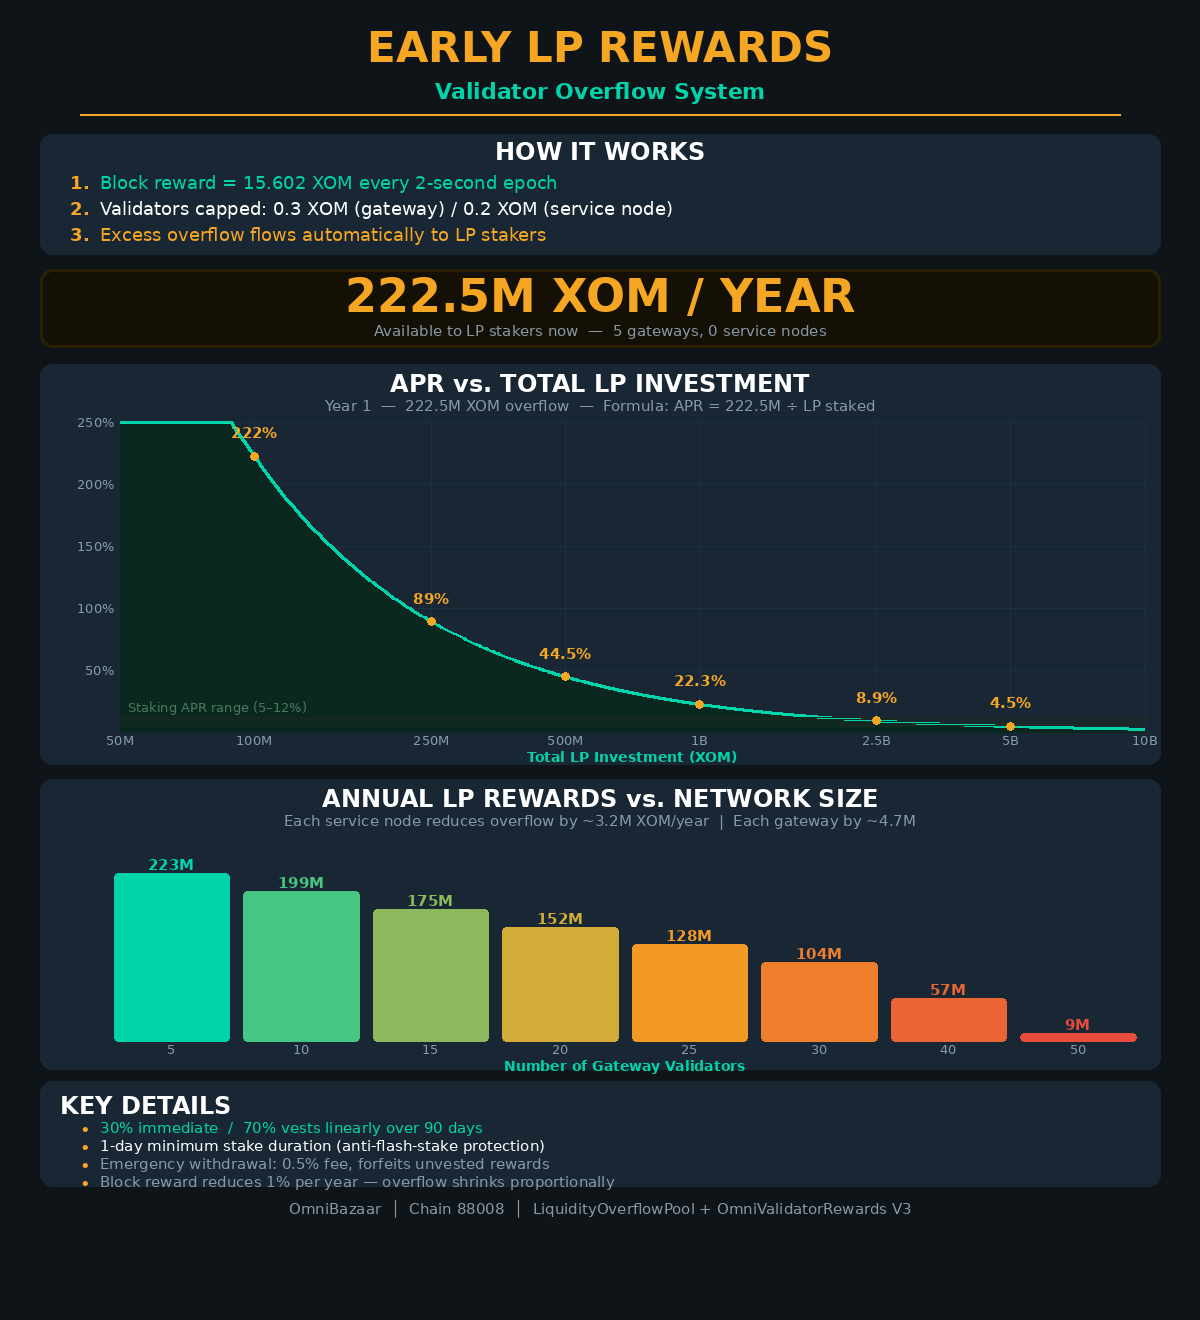
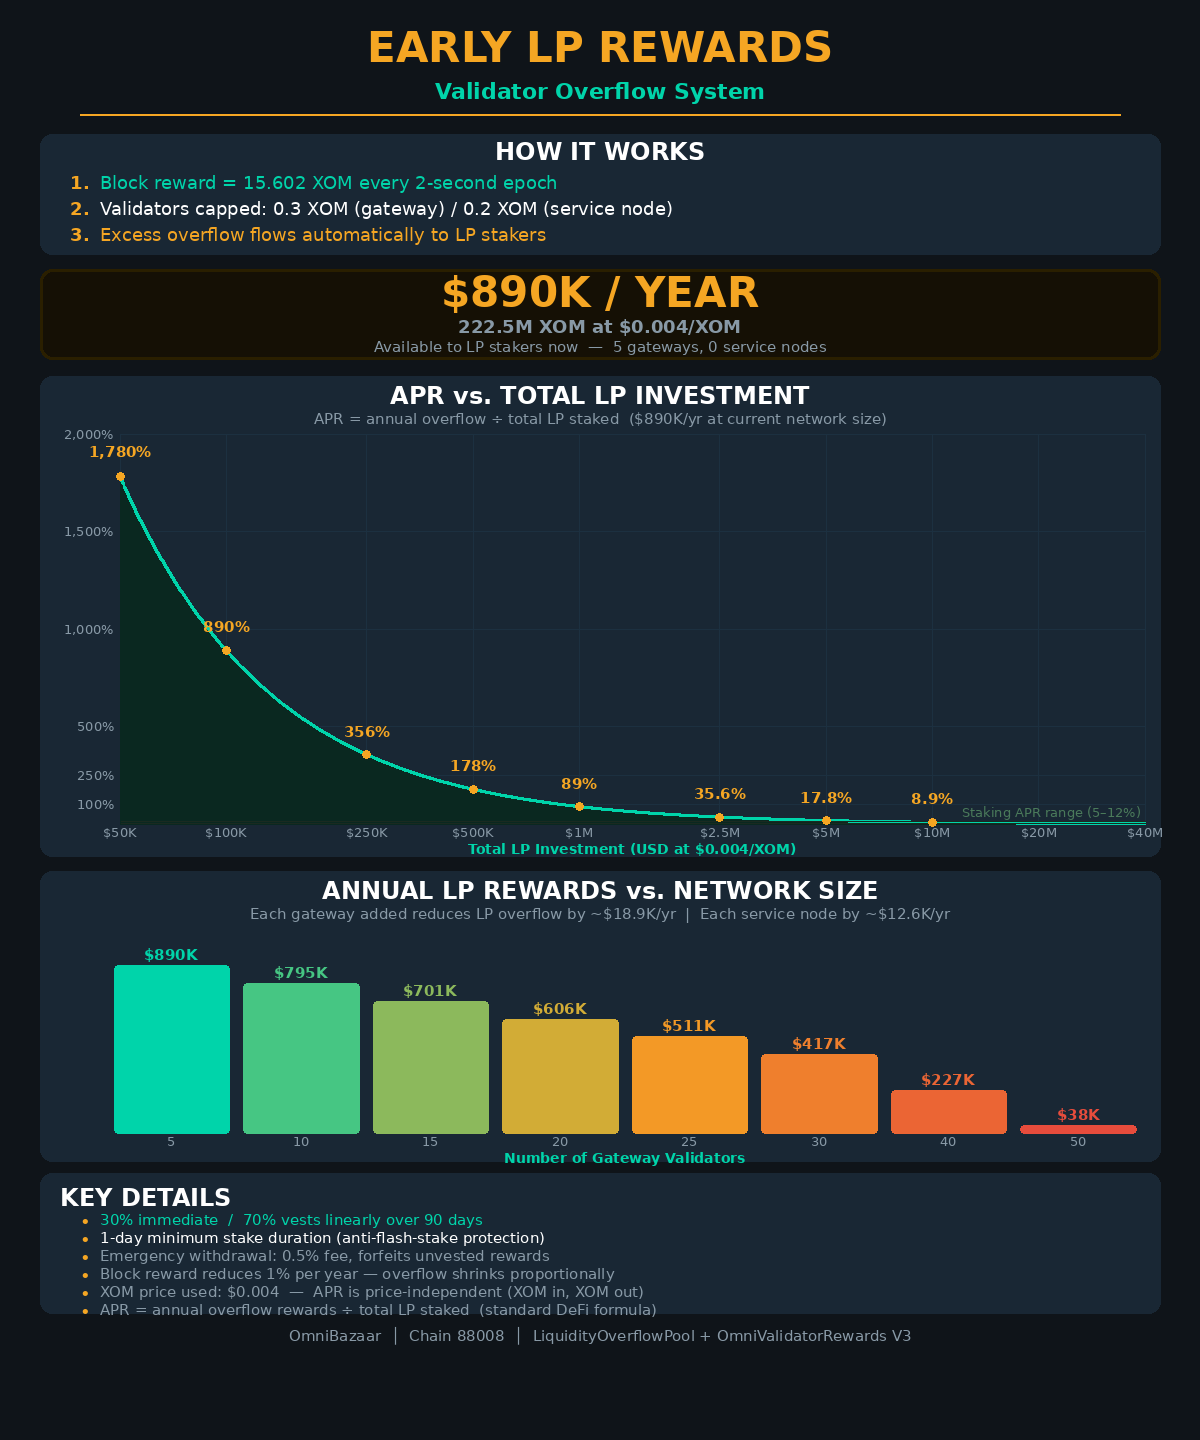
Update reward infographics to show USD values and overflow-based LP model
create_lp_rewards_infographic.py:
  - Convert all chart axes and labels from XOM to USD at $0.004/XOM
  - X-axis now $50K–$40M range (was 50M–10B XOM) for realistic LP investment scale
  - Y-axis APR range expanded to 2,000% to show high APR at low investment levels
  - Add APR formula documentation (standard MasterChef model)
  - Add fmt_usd() helper for axis label formatting
  - Add XOM price note and APR independence disclaimer to key details
  - Update bar chart to show $/yr per gateway reduction (~$18.9K vs ~$12.6K per SN)
  - Increase canvas height to 1440 to accommodate additional detail lines

  create_rewards_infographic.py:
  - Replace block producer/staking pool/ODDAO block reward cards with
    gateway validators (0.3 cap), service nodes (0.2 cap), LP overflow (~14.1)
  - Change "block" terminology to "epoch" throughout
  - Add overflow routing explanation line below epoch reward summary
  - Update validator operator card to show capped epoch reward
  - Fix output path to Documents/ directory (was writing to project root)

  Regenerate both PNG infographics with updated content.

diff --git a/create_lp_rewards_infographic.py b/create_lp_rewards_infographic.py
@@ -4,10 +4,18 @@ OmniBazaar LP Rewards Infographic Generator
 
 Shows how LP APR decreases as total LP investment grows (hyperbolic curve)
 and how total annual LP rewards decrease as the validator network grows.
+All amounts displayed in USD at $0.004/XOM.
 
 On-chain sources:
   OmniValidatorRewards.sol  — INITIAL_BLOCK_REWARD=15.602, gatewayRewardCap=0.3, serviceNodeRewardCap=0.2
   LiquidityOverflowPool.sol — 30% immediate, 70% vests 90 days, 1-day min stake
+
+APR formula (industry-standard MasterChef model):
+  APR = (annualOverflowRewards / totalLPStaked) x 100
+  - No auto-compounding (APR, not APY)
+  - Price-independent (XOM/XOM ratio cancels out USD conversion)
+  - 30% of rewards are immediately claimable, 70% vest linearly over 90 days
+  - For stakers holding >90 days, the full APR is realized
 """
 
 from PIL import Image, ImageDraw, ImageFont
@@ -15,7 +23,7 @@ import math
 
 # ── Layout ─────────────────────────────────────────────────────
 WIDTH = 1200
-HEIGHT = 1320
+HEIGHT = 1440
 BG       = "#0f1419"
 TEAL     = "#00d4aa"
 BLUE     = "#1da1f2"
@@ -41,6 +49,10 @@ NUM_GW = 5
 OVERFLOW_EPOCH = BLOCK_REWARD - NUM_GW * GATEWAY_CAP   # 14.102
 ANNUAL_OVERFLOW = OVERFLOW_EPOCH * EPOCHS_PER_YEAR      # ~222.5M XOM
 
+# USD conversion
+XOM_PRICE = 0.004              # $0.004 per XOM
+ANNUAL_OVERFLOW_USD = ANNUAL_OVERFLOW * XOM_PRICE       # ~$890K
+
 
 def rgb(h):
     h = h.lstrip('#')
@@ -55,6 +67,14 @@ def rrect(draw, coords, r, fill):
 
 def lerp(a, b, t):
     return tuple(int(a[i] + (b[i] - a[i]) * t) for i in range(3))
+
+def fmt_usd(v):
+    """Format USD value for axis labels."""
+    if v >= 1e6:
+        return f"${v/1e6:.0f}M" if v >= 10e6 else f"${v/1e6:.1f}M"
+    if v >= 1e3:
+        return f"${v/1e3:.0f}K"
+    return f"${v:.0f}"
 
 
 def create():
@@ -72,7 +92,8 @@ def create():
     F_BSM     = ft("DejaVuSans-Bold.ttf", 15)
     F_AX      = ft("DejaVuSans.ttf", 13)
     F_BAX     = ft("DejaVuSans-Bold.ttf", 14)
-    F_BIG     = ft("DejaVuSans-Bold.ttf", 46)
+    F_BIG     = ft("DejaVuSans-Bold.ttf", 42)
+    F_BIGSUB  = ft("DejaVuSans-Bold.ttf", 26)
 
     y = 30
 
@@ -100,68 +121,75 @@ def create():
     y += 135
 
     # ════════════ CURRENT STATE ════════════
-    rrect(d, (40, y, WIDTH-40, y+78), 12, rgb(DARK_GOLD))
-    rrect(d, (43, y+3, WIDTH-43, y+75), 10, rgb("#151005"))
+    rrect(d, (40, y, WIDTH-40, y+90), 12, rgb(DARK_GOLD))
+    rrect(d, (43, y+3, WIDTH-43, y+87), 10, rgb("#151005"))
+    usd_k = ANNUAL_OVERFLOW_USD / 1e3
     om = ANNUAL_OVERFLOW / 1e6
-    d.text((WIDTH//2, y+8), f"{om:.1f}M XOM / YEAR", font=F_BIG, fill=rgb(GOLD), anchor="mt")
-    d.text((WIDTH//2, y+56),
+    d.text((WIDTH//2, y+6), f"${usd_k:.0f}K / YEAR", font=F_BIG, fill=rgb(GOLD), anchor="mt")
+    d.text((WIDTH//2, y+50), f"{om:.1f}M XOM at ${XOM_PRICE}/XOM",
+           font=F_BBODY, fill=rgb(MUTED), anchor="mt")
+    d.text((WIDTH//2, y+72),
            f"Available to LP stakers now  \u2014  {NUM_GW} gateways, 0 service nodes",
            font=F_SM, fill=rgb(MUTED), anchor="mt")
-    y += 95
+    y += 107
 
-    # ════════════ CHART 1: APR vs LP Investment ════════════
-    CH1 = 400
+    # ════════════ CHART 1: APR vs LP Investment (USD) ════════════
+    CH1 = 480
     rrect(d, (40, y, WIDTH-40, y+CH1), 12, rgb(CARD))
     d.text((WIDTH//2, y+10), "APR vs. TOTAL LP INVESTMENT", font=F_SEC, fill=rgb(WHITE), anchor="mt")
     d.text((WIDTH//2, y+36),
-           f"Year 1  \u2014  {om:.1f}M XOM overflow  \u2014  Formula: APR = {om:.1f}M \u00f7 LP staked",
+           f"APR = annual overflow \u00f7 total LP staked  "
+           f"(${usd_k:.0f}K/yr at current network size)",
            font=F_SM, fill=rgb(MUTED), anchor="mt")
 
     # Chart area
     cx1, cy1, cx2, cy2 = 120, y+58, WIDTH-55, y+CH1-32
     cw, ch = cx2-cx1, cy2-cy1
-    xlo, xhi = math.log10(50e6), math.log10(10e9)
-    ylo, yhi = 0, 250
+
+    # X-axis: $50K to $40M (log scale, in USD)
+    xlo, xhi = math.log10(50e3), math.log10(40e6)
+    ylo, yhi = 0, 2000  # APR %
 
     def px(v): return cx1 + (math.log10(v) - xlo) / (xhi - xlo) * cw
     def py(a): return cy2 - (min(a, yhi) - ylo) / (yhi - ylo) * ch
 
-    # Horizontal grid (skip 0% label to avoid overlap with X-axis labels)
-    for a in [0, 50, 100, 150, 200, 250]:
+    # Horizontal grid
+    for a in [0, 100, 250, 500, 1000, 1500, 2000]:
         yy = py(a)
         d.line([(cx1, yy), (cx2, yy)], fill=rgb(GRID), width=1)
         if a > 0:
-            d.text((cx1-6, yy), f"{a}%", font=F_AX, fill=rgb(MUTED), anchor="rm")
+            d.text((cx1-6, yy), f"{a:,}%", font=F_AX, fill=rgb(MUTED), anchor="rm")
 
-    # Vertical grid (skip first label to avoid 0% overlap)
-    for val, lbl in [(100e6,"100M"),(250e6,"250M"),(500e6,"500M"),
-                     (1e9,"1B"),(2.5e9,"2.5B"),(5e9,"5B"),(10e9,"10B")]:
+    # Vertical grid
+    xticks = [
+        (50e3, "$50K"), (100e3, "$100K"), (250e3, "$250K"),
+        (500e3, "$500K"), (1e6, "$1M"), (2.5e6, "$2.5M"),
+        (5e6, "$5M"), (10e6, "$10M"), (20e6, "$20M"), (40e6, "$40M"),
+    ]
+    for val, lbl in xticks:
         xx = px(val)
         d.line([(xx, cy1), (xx, cy2)], fill=rgb(GRID), width=1)
         d.text((xx, cy2+4), lbl, font=F_AX, fill=rgb(MUTED), anchor="mt")
-    # First tick (50M) — draw gridline only, label positioned to avoid 0% overlap
-    xx50 = px(50e6)
-    d.line([(xx50, cy1), (xx50, cy2)], fill=rgb(GRID), width=1)
-    d.text((xx50, cy2+4), "50M", font=F_AX, fill=rgb(MUTED), anchor="mt")
 
-    d.text(((cx1+cx2)//2, cy2+19), "Total LP Investment (XOM)", font=F_BAX, fill=rgb(TEAL), anchor="mt")
+    d.text(((cx1+cx2)//2, cy2+19), "Total LP Investment (USD at $0.004/XOM)",
+           font=F_BAX, fill=rgb(TEAL), anchor="mt")
 
     # Fill under curve
     fill_pts = []
-    for lp_m in range(50, 10001, 5):
-        lp = lp_m * 1e6
-        apr = min((ANNUAL_OVERFLOW / lp) * 100, yhi)
-        fill_pts.append((px(lp), py(apr)))
-    fill_pts.append((px(10e9), py(0)))
-    fill_pts.append((px(50e6), py(0)))
+    for step in range(0, 2001):
+        usd = 50e3 * (40e6 / 50e3) ** (step / 2000)
+        apr = min((ANNUAL_OVERFLOW_USD / usd) * 100, yhi)
+        fill_pts.append((px(usd), py(apr)))
+    fill_pts.append((px(40e6), py(0)))
+    fill_pts.append((px(50e3), py(0)))
     d.polygon(fill_pts, fill=rgb(FILL))
 
     # Draw curve
     pts = []
-    for lp_m in range(50, 10001, 3):
-        lp = lp_m * 1e6
-        apr = min((ANNUAL_OVERFLOW / lp) * 100, yhi)
-        pts.append((px(lp), py(apr)))
+    for step in range(0, 2001):
+        usd = 50e3 * (40e6 / 50e3) ** (step / 2000)
+        apr = min((ANNUAL_OVERFLOW_USD / usd) * 100, yhi)
+        pts.append((px(usd), py(apr)))
     for i in range(len(pts)-1):
         d.line([pts[i], pts[i+1]], fill=rgb(TEAL), width=3)
 
@@ -169,32 +197,36 @@ def create():
     bt, bb = py(12), py(5)
     for yy in range(int(bt), int(bb)+1, 2):
         d.line([(cx1+1, yy), (cx2, yy)], fill=rgb("#1a2a20"), width=1)
-    d.text((cx1+8, bt-2), "Staking APR range (5\u201312%)", font=F_AX, fill=rgb("#4a7a5a"), anchor="lb")
+    d.text((cx2-4, bt-2), "Staking APR range (5\u201312%)",
+           font=F_AX, fill=rgb("#4a7a5a"), anchor="rb")
 
     # Key data points
     highlights = [
-        (100e6,  "222%",  -18, 0),
-        (250e6,  "89%",   -18, 0),
-        (500e6,  "44.5%", -18, 0),
-        (1e9,    "22.3%", -18, 0),
-        (2.5e9,  "8.9%",  -18, 0),
-        (5e9,    "4.5%",  -18, 0),
+        (50e3,   "1,780%",  -18, 0),
+        (100e3,  "890%",    -18, 0),
+        (250e3,  "356%",    -18, 0),
+        (500e3,  "178%",    -18, 0),
+        (1e6,    "89%",     -18, 0),
+        (2.5e6,  "35.6%",   -18, 0),
+        (5e6,    "17.8%",   -18, 0),
+        (10e6,   "8.9%",    -18, 0),
     ]
-    for lp_val, label, offy, offx in highlights:
-        apr = (ANNUAL_OVERFLOW / lp_val) * 100
-        xx, yy = px(lp_val), py(apr)
+    for lp_usd, label, offy, offx in highlights:
+        apr = (ANNUAL_OVERFLOW_USD / lp_usd) * 100
+        xx, yy = px(lp_usd), py(apr)
         d.ellipse([xx-4, yy-4, xx+4, yy+4], fill=rgb(GOLD))
         d.text((xx+offx, yy+offy), label, font=F_BSM, fill=rgb(GOLD), anchor="mb")
 
     y += CH1 + 15
 
-    # ════════════ CHART 2: Annual Overflow vs Network Size ════════════
+    # ════════════ CHART 2: Annual Overflow vs Network Size (USD) ════════════
     CH2 = 290
     rrect(d, (40, y, WIDTH-40, y+CH2), 12, rgb(CARD))
     d.text((WIDTH//2, y+10), "ANNUAL LP REWARDS vs. NETWORK SIZE",
            font=F_SEC, fill=rgb(WHITE), anchor="mt")
     d.text((WIDTH//2, y+36),
-           "Each service node reduces overflow by ~3.2M XOM/year  |  Each gateway by ~4.7M",
+           "Each gateway added reduces LP overflow by ~$18.9K/yr  |  "
+           "Each service node by ~$12.6K/yr",
            font=F_SM, fill=rgb(MUTED), anchor="mt")
 
     bx1, by2 = 100, y+CH2-28
@@ -207,7 +239,8 @@ def create():
     for gc in [5, 10, 15, 20, 25, 30, 40, 50]:
         consumed = gc * GATEWAY_CAP
         ov = max(0, BLOCK_REWARD - consumed)
-        bars.append((gc, ov * EPOCHS_PER_YEAR / 1e6))
+        usd_annual = ov * EPOCHS_PER_YEAR * XOM_PRICE
+        bars.append((gc, usd_annual))
 
     mx = bars[0][1]
     n = len(bars)
@@ -224,29 +257,32 @@ def create():
 
         if hb > 4:
             rrect(d, (int(x0), int(yt), int(x0+bwb), by2), 4, col)
-        vlbl = f"{am:.0f}M" if am >= 1 else ("~0" if am < 0.5 else f"{am:.1f}M")
+        vlbl = f"${am/1e3:.0f}K" if am >= 1000 else f"${am:.0f}"
         d.text((int(x0+bwb/2), int(yt-3)), vlbl, font=F_BSM, fill=col, anchor="mb")
         d.text((int(x0+bwb/2), by2+4), str(gc), font=F_AX, fill=rgb(MUTED), anchor="mt")
 
-    d.text(((bx1+bx2)//2, by2+19), "Number of Gateway Validators", font=F_BAX, fill=rgb(TEAL), anchor="mt")
+    d.text(((bx1+bx2)//2, by2+19), "Number of Gateway Validators",
+           font=F_BAX, fill=rgb(TEAL), anchor="mt")
 
     y += CH2 + 12
 
     # ════════════ KEY DETAILS ════════════
-    rrect(d, (40, y, WIDTH-40, y+105), 12, rgb(CARD))
+    rrect(d, (40, y, WIDTH-40, y+140), 12, rgb(CARD))
     d.text((60, y+10), "KEY DETAILS", font=F_SEC, fill=rgb(WHITE))
     details = [
         ("30% immediate  /  70% vests linearly over 90 days", TEAL),
         ("1-day minimum stake duration (anti-flash-stake protection)", WHITE),
         ("Emergency withdrawal: 0.5% fee, forfeits unvested rewards", MUTED),
         ("Block reward reduces 1% per year \u2014 overflow shrinks proportionally", MUTED),
+        (f"XOM price used: ${XOM_PRICE}  \u2014  APR is price-independent (XOM in, XOM out)", MUTED),
+        ("APR = annual overflow rewards \u00f7 total LP staked  (standard DeFi formula)", MUTED),
     ]
     dy = y + 38
     for txt, c in details:
         d.text((80, dy), "\u2022", font=F_BODY, fill=rgb(GOLD))
         d.text((100, dy), txt, font=F_SM, fill=rgb(c))
         dy += 18
-    y += 118
+    y += 153
 
     # ════════════ FOOTER ════════════
     d.text((WIDTH//2, y),

diff --git a/create_rewards_infographic.py b/create_rewards_infographic.py
@@ -22,7 +22,7 @@ MUTED = "#8899a6"
 CARD = "#192734"
 CARD_HI = "#1e3044"
 
-OUTPUT = "/home/omnirick/OmniBazaar/OmniBazaar_Rewards_Infographic.png"
+OUTPUT = "/home/omnirick/OmniBazaar/Documents/OmniBazaar_Rewards_Infographic.png"
 GLOBE = "/home/omnirick/OmniBazaar/UI Mockup/OmniBazaar Globe-clear-256x256.png"
 
 
@@ -164,12 +164,12 @@ def create():
     bw3 = (WIDTH - 100 - 24) // 3
     bh = 155
     block_cards = [
-        ("BLOCK PRODUCER", "Remainder after\nstaking + ODDAO",
-         "~6.2 XOM/block", BLUE),
-        ("STAKING POOL", "Up to 50% of\nblock reward",
-         "~7.8 XOM/block", PRIMARY),
-        ("ODDAO TREASURY", "10% of total\nblock reward",
-         "~1.6 XOM/block", ORANGE),
+        ("GATEWAY VALIDATORS", "Capped at 0.3 XOM\nper epoch per gateway",
+         "5 \u00d7 0.3 = 1.5", BLUE),
+        ("SERVICE NODES", "Capped at 0.2 XOM\nper epoch per node",
+         "0 active", PURPLE),
+        ("LP OVERFLOW", "All remaining reward\nto liquidity providers",
+         "~14.1 XOM/epoch", PRIMARY),
     ]
     for i, (title, desc, amt, color) in enumerate(block_cards):
         cx = 50 + i * (bw3 + 12)
@@ -186,9 +186,14 @@ def create():
             ty += 19
     y += bh + 10
     draw.text((WIDTH // 2, y),
-              "Initial: 15.6 XOM/block (2-sec blocks)  |  "
+              "Initial: 15.6 XOM/epoch (2-sec epochs)  |  "
               "1% reduction every ~146 days  |  "
               "Zero after ~40 years",
+              font=f_t, fill=rgb(MUTED), anchor="mm")
+    y += 20
+    draw.text((WIDTH // 2, y),
+              "Overflow = epoch reward \u2212 sum of validator caps  "
+              "\u2192  routed to LiquidityOverflowPool",
               font=f_t, fill=rgb(MUTED), anchor="mm")
     y += 36
 
@@ -303,8 +308,8 @@ def create():
 
     right_cards = [
         ("VALIDATOR OPERATOR", PRIMARY,
-         ["Block rewards + tx fees",
-          "+ all service fees.",
+         ["Capped block reward per epoch",
+          "+ service fees.",
           "",
           "Requires: 1M XOM stake,",
           "KYC Tier 4, score >= 50,",
